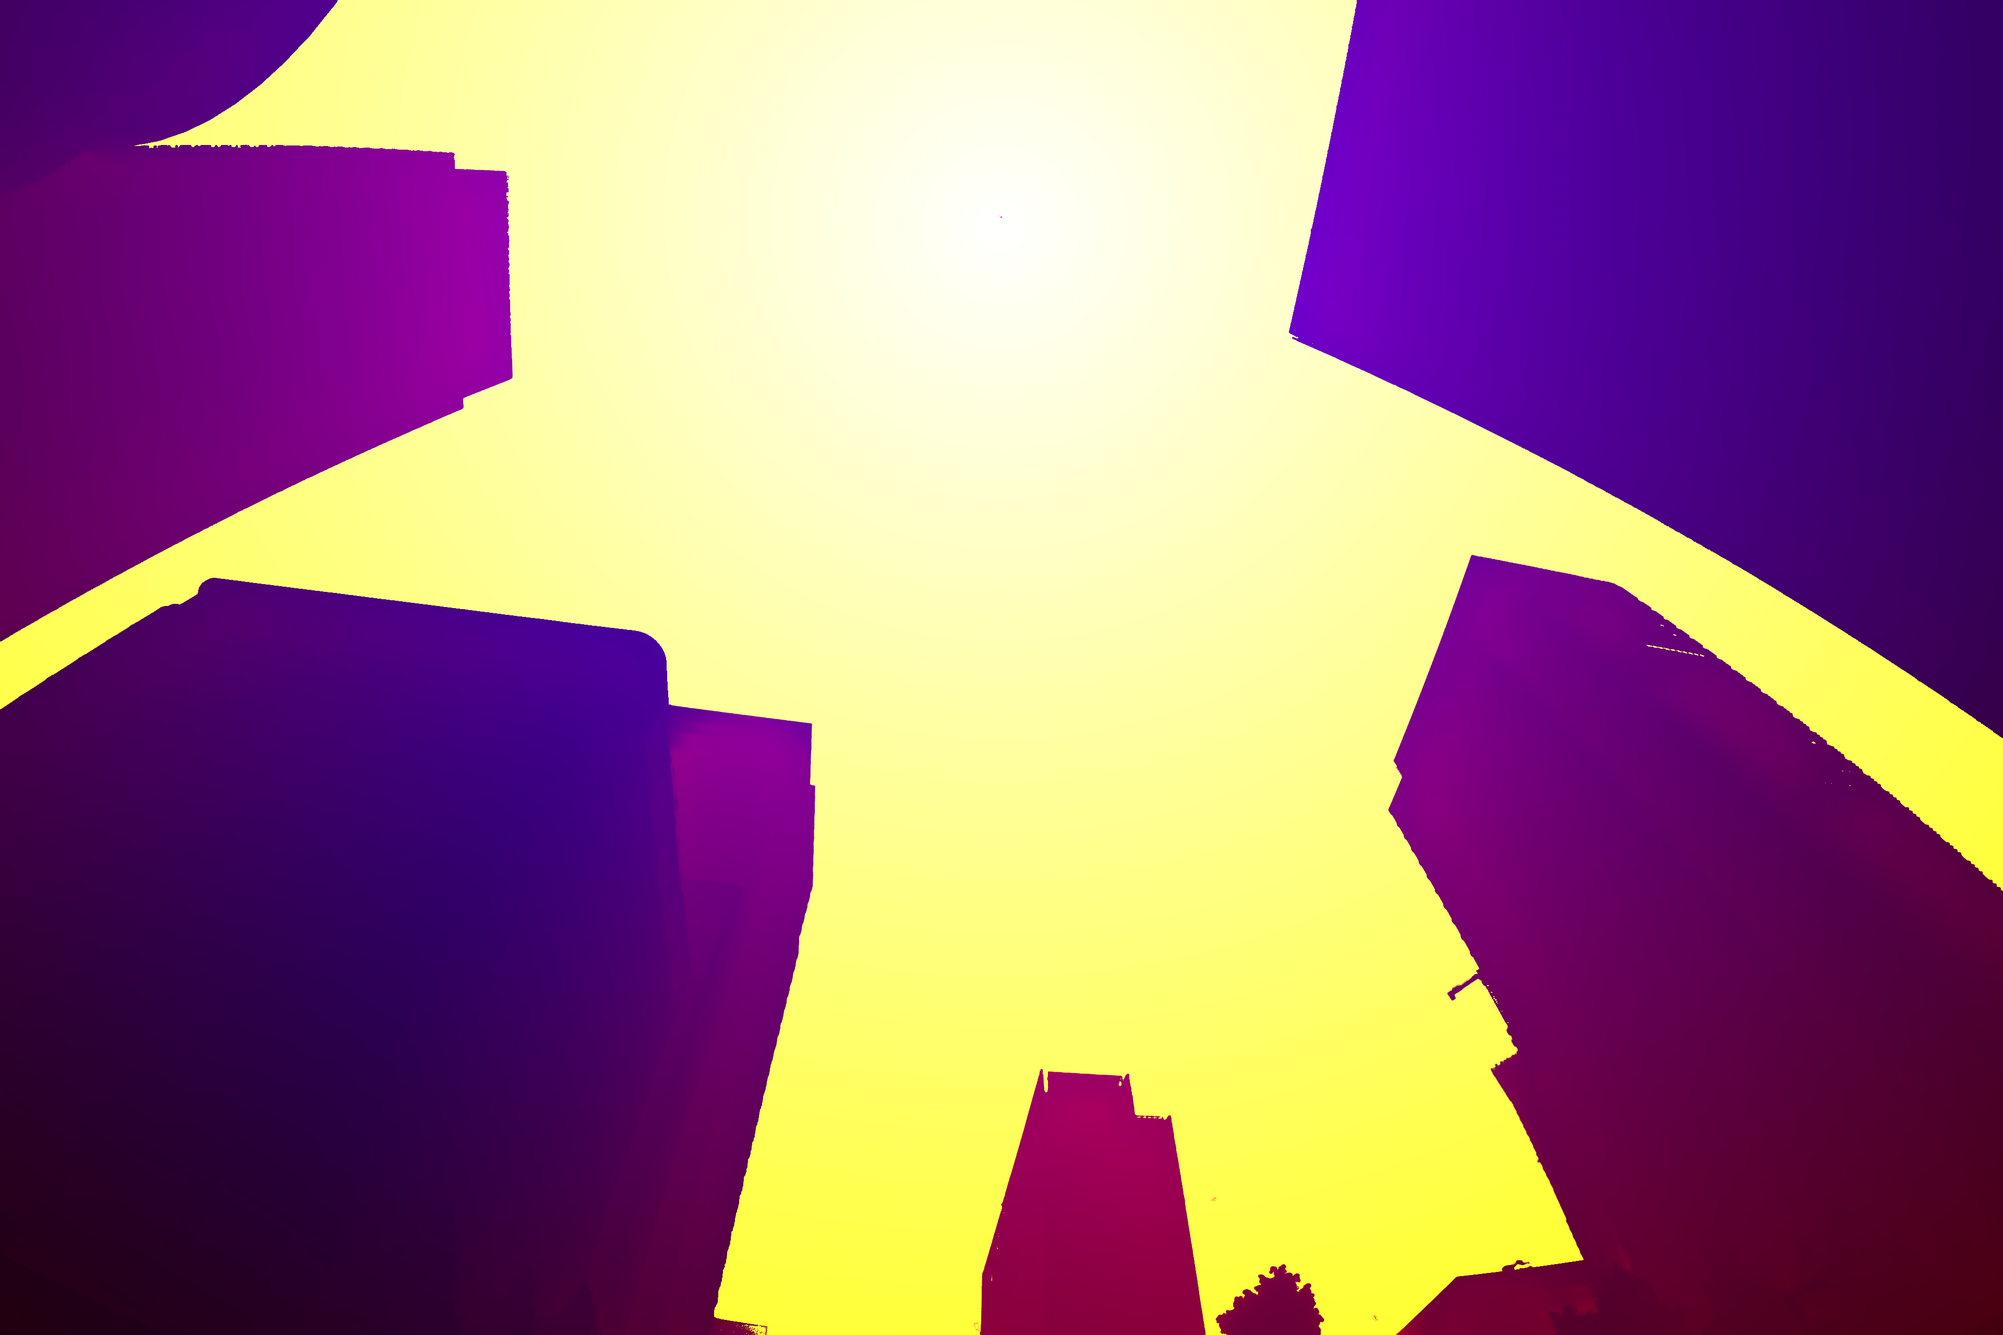
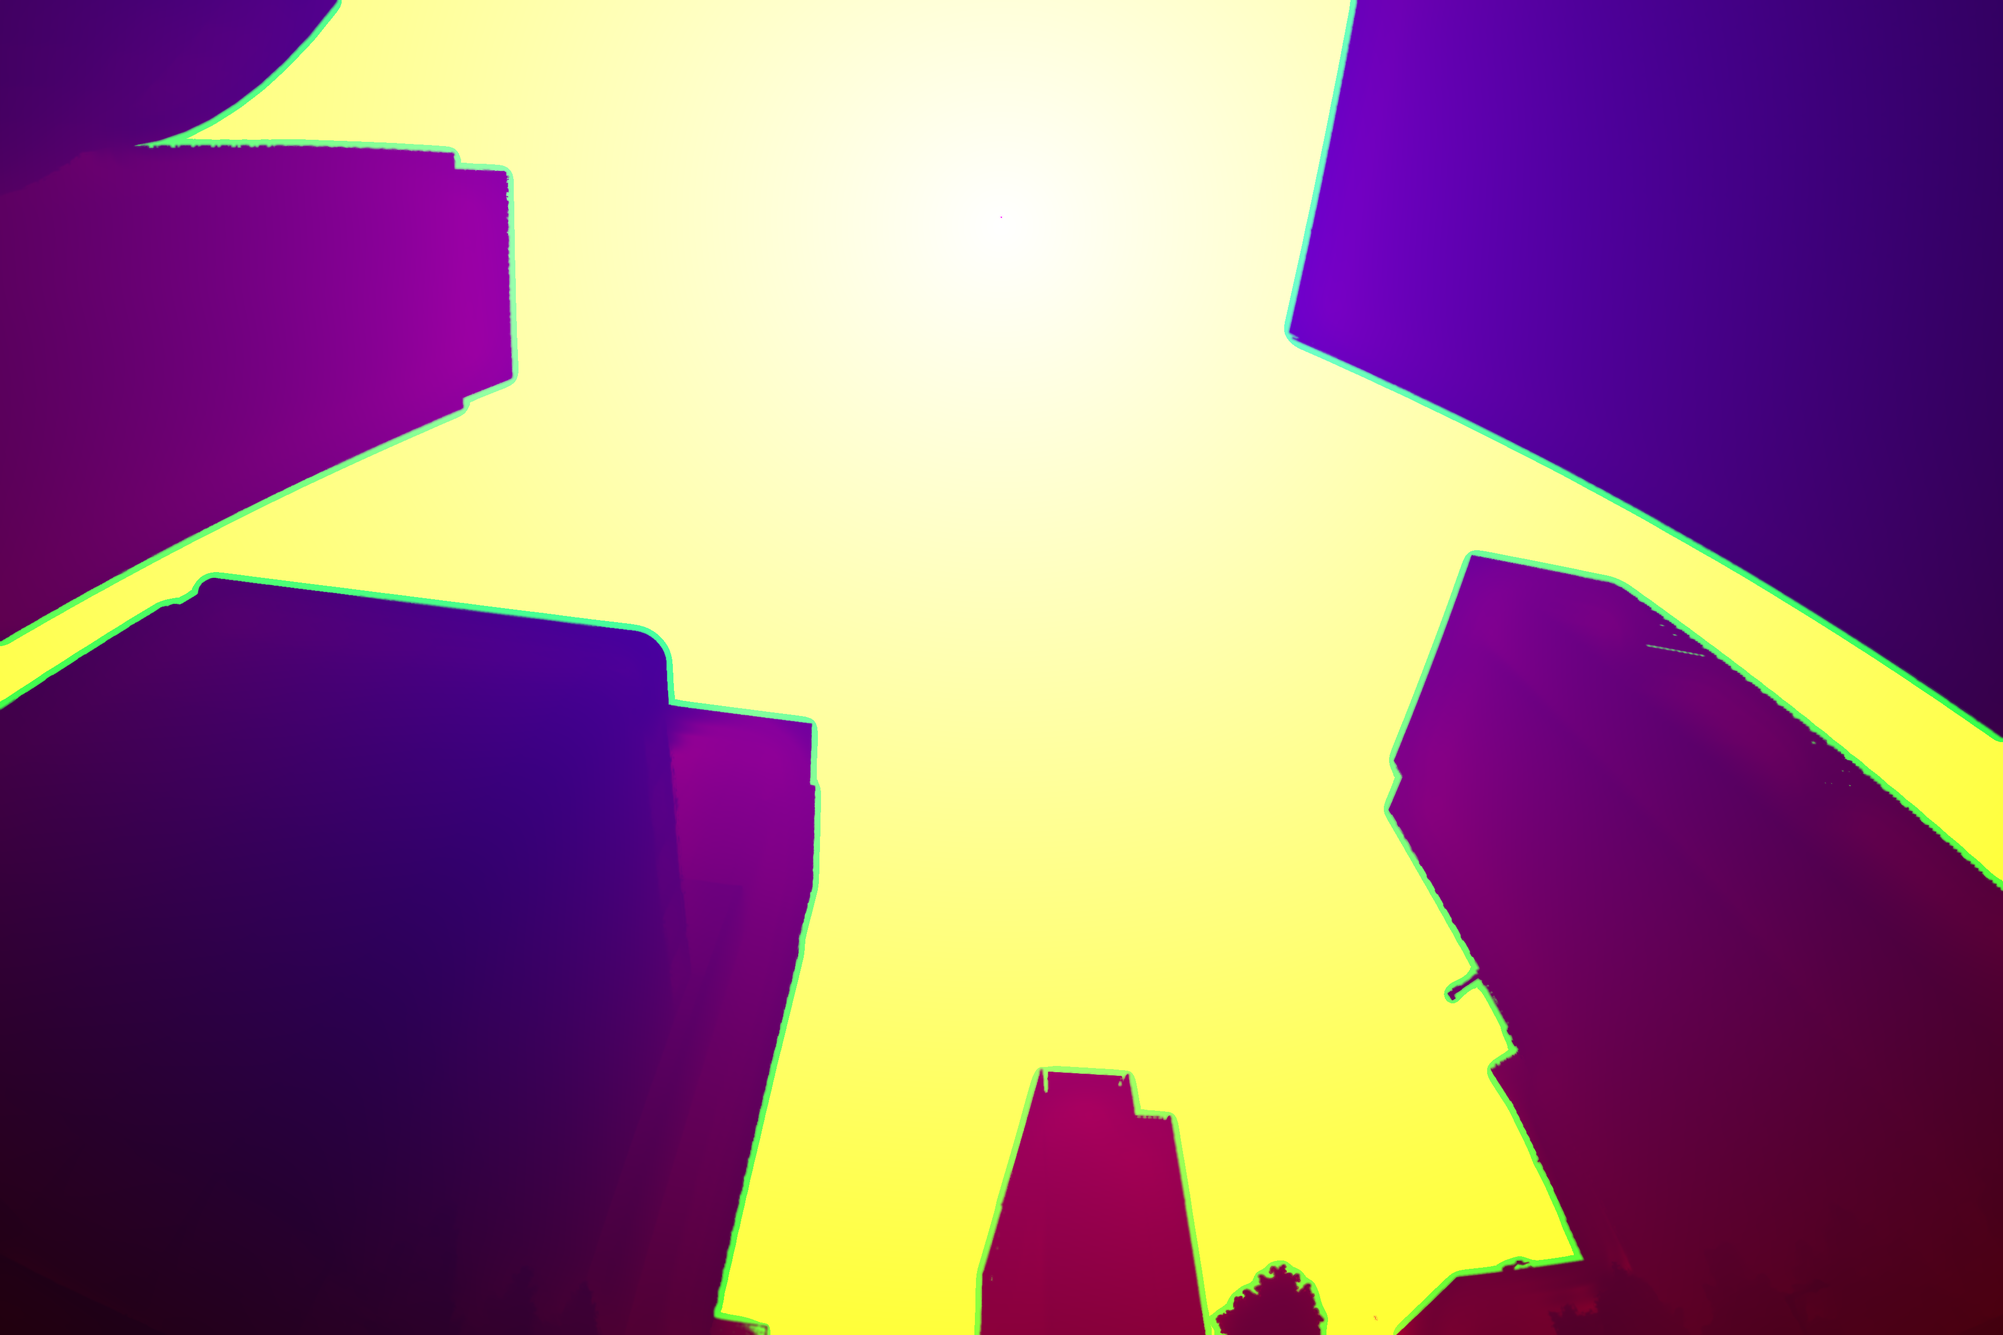
Lab: climb fog round 2
Claude-Session: https://claude.ai/code/session_01RqENhngNCzDFmJWDZueXGV

diff --git a/src/app/lab/fog/fogEngine.js b/src/app/lab/fog/fogEngine.js
@@ -13,7 +13,9 @@ import { createStage, clamp } from "../_kit/stage";
 // relative inverse depth, turned into metres offline (the glass corner ~30 m,
 // the far tower down the street ~380 m), with the distance and the sky matte
 // both stopped on the towers' silhouettes (no bleed band of sky distance
-// inside a tower's edge); the sky sits at the far end through its matte.
+// inside a tower's edge). The matte is sub-pixel coverage on the plate's own
+// edges, and the tower's distance runs out across them, so an edge pixel is
+// its tower's air and the sky's by coverage, never a per-pixel switch.
 // tools/depth/bakes/fog/ builds both (auxmap.py the distance and matte).
 //
 //   visibility V   the control (Koschmieder: beta = 3.912 / V at 550 nm)
@@ -34,7 +36,7 @@ import { createStage, clamp } from "../_kit/stage";
 //                  and banks of it drift slowly through the street
 
 const COLOR_SRC = "/lab/fog/plate.webp";
-const AUX_SRC = "/lab/fog/aux.png"; // r log distance, g sky matte, b elevation
+const AUX_SRC = "/lab/fog/aux.png"; // r log distance, g sky coverage, b elevation
 const ASPECT = 3 / 2;
 const PLATE_W = 3840; // plate.webp width; the forward-scatter blur is tuned in its levels
 const D_MIN = 10;
@@ -119,33 +121,42 @@ float vnoise(vec3 p) {
     mix(mix(hash3(i + vec3(0, 0, 1)), hash3(i + vec3(1, 0, 1)), f.x), mix(hash3(i + vec3(0, 1, 1)), hash3(i + vec3(1, 1, 1)), f.x), f.y),
     f.z);
 }
-// Optical depth along the ray through this pixel, per channel.
-vec3 tauAt(vec2 uv, vec4 aux) {
+// Extinction along a ray at elevation sine s through haze at log-distance
+// depth z (the noise lives at depths), weighted w by the pointer's breath.
+float betaAt(vec2 uv, float z, float w) {
+  // Banks of haze: low-frequency noise, advected sideways, living at depths.
+  vec3 q = vec3(uv.x * uAspect * 1.4 - uTime * 0.012, uv.y * 1.2, z * 0.4);
+  float n = vnoise(q) * 0.64 + vnoise(q * 2.03 + vec3(uTime * 0.008, 0.0, 3.1)) * 0.36;
+  float b = uBeta * mix(0.7, 1.3, n);
+  // It gathers where the pointer rests.
+  vec2 p = (uv - uBreath.xy) * vec2(uAspect, 1.0);
+  return b * (1.0 + uBreath.z * w * exp(-dot(p, p) / 0.06));
+}
+// Optical depth, per channel, along the ray to the tower this pixel is (or,
+// in the band along a silhouette, the tower it partly is: aux.r carries the
+// tower's distance out across its edge).
+vec3 tauTower(vec2 uv, vec4 aux) {
   float d = distAt(aux);
   float s = max(sin(radians(aux.b * 90.0)), 0.06);
   // Air in a haze layer that thins with height, along the ray to a tower.
   float L = ${HS.toFixed(1)} / s * (1.0 - exp(-d * s / ${HS.toFixed(1)}));
   // Less of it near the eye: the swept street, d - d0 ln(1 + d / d0) of d.
   L *= 1.0 - uClear / d * log(1.0 + d / max(uClear, 1e-3));
+  // Blue goes first along the street.
+  return betaAt(uv, log(d), 1.0) * L * vec3(${K_RGB.map((k) => k.toFixed(2)).join(", ")});
+}
+// And to the sky through it.
+vec3 tauSky(vec2 uv, vec4 aux) {
+  float s = max(sin(radians(aux.b * 90.0)), 0.06);
   // The sky is looked at through the whole column, by airmass: a thin one
   // overhead, so the zenith stays clear, thickening gradually toward the
   // low sky down the street (1 / cos of the zenith angle, floored).
-  float Ls = ${HS_SKY.toFixed(1)} / max(s, ${AIRMASS_FLOOR.toFixed(2)});
-  L = mix(L, Ls, aux.g);
-  // Banks of haze: low-frequency noise, advected sideways, living at depths.
-  vec3 q = vec3(uv.x * uAspect * 1.4 - uTime * 0.012, uv.y * 1.2, log(d) * 0.4);
-  float n = vnoise(q) * 0.64 + vnoise(q * 2.03 + vec3(uTime * 0.008, 0.0, 3.1)) * 0.36;
-  float b = uBeta * mix(0.7, 1.3, n);
-  // It gathers where the pointer rests.
-  vec2 p = (uv - uBreath.xy) * vec2(uAspect, 1.0);
-  // Over the sky it gathers at half strength: a breath, not a bank.
-  b *= 1.0 + uBreath.z * mix(1.0, 0.5, aux.g) * exp(-dot(p, p) / 0.06);
-  // Blue goes first along the street. Over the sky the column is short and
-  // the light it takes away is the cloud's warm-white, which a Rayleigh
-  // spread turns lilac under the blue veil; there the haze is near-grey and
-  // the veil keeps the skylight's cyan.
-  vec3 k = mix(vec3(${K_RGB.map((k) => k.toFixed(2)).join(", ")}), vec3(${K_SKY.map((k) => k.toFixed(2)).join(", ")}), aux.g);
-  return b * L * k;
+  float L = ${HS_SKY.toFixed(1)} / max(s, ${AIRMASS_FLOOR.toFixed(2)});
+  // Over the sky it gathers at half strength: a breath, not a bank. The
+  // column is short and the light it takes away is the cloud's warm-white,
+  // which a Rayleigh spread turns lilac under the blue veil; there the haze
+  // is near-grey and the veil keeps the skylight's cyan.
+  return betaAt(uv, ${Math.log(D_MAX).toFixed(4)}, 0.5) * L * vec3(${K_SKY.map((k) => k.toFixed(2)).join(", ")});
 }
 `;
 
@@ -237,12 +248,21 @@ void main() {
   vec2 frag = vec2(gl_FragCoord.x, uCanvas.y - gl_FragCoord.y);
   vec2 uv = clamp((frag - uRect.xy) / uRect.zw, 0.0, 1.0);
   vec4 aux = texture(uAux, uv);
-  vec3 T = exp(-tauAt(uv, aux));
+  // How much of this pixel is open sky: the aux coverage, boxed over the
+  // pixel's footprint like the plate (the aux map is drawn smaller than 1:1,
+  // and one bilinear tap of it would alias the silhouettes again).
+  vec2 q = 0.25 / uRect.zw;
+  float cov = 0.25 * (texture(uAux, uv + vec2(-q.x, -q.y)).g + texture(uAux, uv + vec2(q.x, -q.y)).g
+    + texture(uAux, uv + vec2(-q.x, q.y)).g + texture(uAux, uv + vec2(q.x, q.y)).g);
+  // Two rays share an edge pixel: one stops on the tower, one goes on to the
+  // sky. Each has its own air, and the pixel is the two by coverage.
+  vec3 Tt = exp(-tauTower(uv, aux));
+  vec3 Ts = exp(-tauSky(uv, aux));
 
   // Forward scatter softens what the air has nearly taken: the towers only.
   // The sky behind the haze is veiled by the in-scatter below, never blurred
   // (convolving the clouds reads as a lens, not as air).
-  float soft = (1.0 - T.g) * (1.0 - T.g) * (1.0 - smoothstep(0.02, 0.5, aux.g));
+  float soft = (1.0 - Tt.g) * (1.0 - Tt.g) * (1.0 - cov);
   vec3 scene = plate(uv, soft * ${(1.6 + Math.log2(PLATE_W / 2400)).toFixed(3)});
 
   // The air is lit by the sky. In front of the sky it is the sky's own light
@@ -255,7 +275,7 @@ void main() {
   vec3 air = (a.rgb + uSkyMean * 0.02) / (a.a + 0.02);
   air = mix(vec3(${hex(AIR_LOW)}), air, smoothstep(16.0, 60.0, aux.b * 90.0));
   // Thick haze scatters more often and lifts toward the brighter horizon.
-  float thick = 1.0 - T.g;
+  float thick = 1.0 - Ts.g;
   air = pow(min(air * (1.0 + 0.08 * thick), vec3(${hex(AIR_CAP)})), vec3(2.2));
   // In front of a tower it is the open sky at that tower's own elevation: a
   // far tower fades into the blue it stands in, never toward the pale rim or
@@ -263,23 +283,24 @@ void main() {
   // turns the towers to milk). Clamped to the mid sky: the deep cobalt
   // overhead is the thinnest air in the frame and lights the least of it.
   vec3 open = pow(mix(uSkyLow, uSkyMid, smoothstep(18.0, 34.0, aux.b * 90.0)), vec3(2.2));
-  air = mix(open, air, smoothstep(0.02, 0.5, aux.g));
 
-  vec3 col = scene * T + air * (1.0 - T);
+  vec3 tower = scene * Tt + open * (1.0 - Tt);
+  vec3 sky = scene * Ts + air * (1.0 - Ts);
   // The veil over the sky keeps the cumulus' forms: their local detail (the
   // plate less its blur at the scale of a cloud's forms) comes back over the
   // in-scatter, so at least ${Math.round(DETAIL_K * 100)}% of it survives any depth of haze and
   // the low cloud reads as cloud through the air, not as a flat wash.
   vec4 dtl = texture(uDetail, uv);
   vec3 forms = pow(dtl.rgb / max(dtl.a, 1e-3), vec3(2.2));
-  float skyW = smoothstep(0.5, 1.0, aux.g) * smoothstep(0.05, 0.3, dtl.a);
-  col += ${DETAIL_K.toFixed(2)} * (1.0 - T) * (scene - forms) * skyW;
+  sky += ${DETAIL_K.toFixed(2)} * (1.0 - Ts) * (scene - forms) * smoothstep(0.05, 0.3, dtl.a);
+  vec3 col = mix(tower, sky, cov);
+  vec3 T = mix(Tt, Ts, cov);
   // Display-encoded and untoned, for the film finish. Alpha packs two
   // sixteenths (it survives an 8-bit target): how much of this pixel is a solid
   // tower still seen through the air (the glass grade's weight, so far towers
   // keep the blue the haze gave them), and how clear the air in front of it is
   // (the warm top end is the sun on the cumulus, not on the haze).
-  float solid = T.g * (1.0 - smoothstep(0.02, 0.5, aux.g));
+  float solid = Tt.g * (1.0 - cov);
   outColor = vec4(pow(max(col, 0.0), vec3(1.0 / 2.2)), (floor(solid * 15.0 + 0.5) * 16.0 + floor(T.g * 15.0 + 0.5)) / 255.0);
 }`;
 
@@ -294,8 +315,15 @@ vec3 tone(vec3 x) {
   return min(y, k) + 0.085 * (1.0 - exp(-max(y - k, 0.0) / 0.085));
 }
 float luma(vec3 c) { return dot(c, vec3(0.2126, 0.7152, 0.0722)); }
-// What exposes the halation: the toned highlights, above about 0.8.
-float highlight(vec3 display) { return smoothstep(0.8, 0.94, luma(tone(display))); }
+// What exposes the halation: the toned highlights, above about 0.8, that are
+// light rather than sky: the sunlit cumulus and glints, near-neutral to warm.
+// The pale cyan of the low sky in haze is bright too, but it is a cool field,
+// not a highlight, and a ring of red round every tower against it reads as a
+// chroma fringe.
+float highlight(vec3 display) {
+  float cool = smoothstep(0.03, 0.1, display.b - display.r);
+  return smoothstep(0.8, 0.94, luma(tone(display))) * (1.0 - cool);
+}
 `;
 
 // The finish's sources at half size: rgb the scene, linear, for the diffusion
@@ -313,7 +341,7 @@ void main() {
 
 // The last stage: the scene as summer film, scanned. A diffusion bloom and
 // scan softness, a filmic shoulder whose top end is warm-neutral, cloud shade
-// toward skylight blue, glass graded away from the sky's blue, a thin red
+// toward skylight blue, glass graded away from the sky's blue, a thin amber
 // halation under the highlight edges, and 24 fps grain at scan scale.
 const FINISH = `#version 300 es
 precision highp float;
@@ -376,8 +404,9 @@ void main() {
   // Halation: light through the base bouncing back into the red layer, just
   // outside each highlight edge.
   float hal = max(texture(uHal, vUv).a / uNorm.x - highlight(s.rgb), 0.0);
-  // Red, with the little green that makes it read red-orange over the blue.
-  c += hal * vec3(0.42, 0.08, 0.0);
+  // A warm amber: red with half as much green, so over the cyan sky it warms
+  // the ring toward the cloud's white instead of printing magenta.
+  c += hal * vec3(0.3, 0.15, 0.02);
 
   // A little toe, then grain: luminance only, strongest in the midtones.
   c = mix(c, c * c * (3.0 - 2.0 * c), 0.1);

diff --git a/tools/depth/bakes/fog/auxmap.py b/tools/depth/bakes/fog/auxmap.py
@@ -1,8 +1,9 @@
 # Fog, the aux map: what the air needs to know about each pixel.
 #
 #   aux.png     R  log distance in metres, D_MIN..D_MAX (sky = D_MAX)
-#               G  sky matte (white = sky): where the air's colour comes from,
-#                  and which column of haze a pixel is seen through
+#               G  sky coverage (white = sky): how much of each pixel is open
+#                  sky, which weighs the sky's air (its colour and its column
+#                  of haze) against the tower's
 #               B  the ray's elevation above the horizon, 0..90 degrees
 #
 # Both R and G have to stop exactly on the towers' silhouettes, or the haze
@@ -21,6 +22,16 @@
 #               distance of the tower's own interior just inside it, never
 #               farther, then a 2 px erosion catches the thin parts (railings,
 #               fins) the interior cannot reach.
+#
+# The snap decides which side of each silhouette a pixel belongs to, but a
+# binary matte stair-steps wherever it is drawn smaller than 1:1 (the plate is
+# 3840 wide and most screens draw it at 2560 or less) and it cannot follow an
+# edge that falls inside a pixel. So the matte the shader gets is coverage: in
+# a band a few pixels either side of the snapped silhouette, a guided filter
+# (He et al.) on the plate's own colour turns the hard matte into a soft one
+# whose transition sits exactly on the plate's edge. R carries the tower's
+# distance across that band (into the sky side too), so the shader can blend
+# the tower's air and the sky's air by coverage instead of switching per pixel.
 #
 # Standalone (rewrites aux.png only; the plate is left alone):
 #   python3 -I tools/depth/bakes/fog/auxmap.py /tmp/claude-0/fog-work16
@@ -97,17 +108,78 @@ def snap(r, matte):
     return r, m
 
 
-def build(r, matte, elev):
-    """aux as floats, H x W x 3."""
+def guided(I, p, r, eps):
+    """Guided filter (He, Sun, Tang 2010) of p by the colour image I, window
+    radius r: p's edges, moved onto I's."""
+    box = lambda x: cv2.boxFilter(x, -1, (2 * r + 1, 2 * r + 1), borderType=cv2.BORDER_REFLECT)
+    mI = [box(I[..., k]) for k in range(3)]
+    mp = box(p)
+    cov_Ip = [box(I[..., k] * p) - mI[k] * mp for k in range(3)]
+    v = {}
+    for i in range(3):
+        for j in range(i, 3):
+            v[i, j] = v[j, i] = box(I[..., i] * I[..., j]) - mI[i] * mI[j] + (eps if i == j else 0)
+    # inverse of the 3x3 covariance, by cofactors
+    c00 = v[1, 1] * v[2, 2] - v[1, 2] * v[1, 2]
+    c01 = v[0, 2] * v[1, 2] - v[0, 1] * v[2, 2]
+    c02 = v[0, 1] * v[1, 2] - v[0, 2] * v[1, 1]
+    c11 = v[0, 0] * v[2, 2] - v[0, 2] * v[0, 2]
+    c12 = v[0, 2] * v[0, 1] - v[0, 0] * v[1, 2]
+    c22 = v[0, 0] * v[1, 1] - v[0, 1] * v[0, 1]
+    det = v[0, 0] * c00 + v[0, 1] * c01 + v[0, 2] * c02
+    inv = [[c00, c01, c02], [c01, c11, c12], [c02, c12, c22]]
+    a = [sum(cov_Ip[j] * inv[k][j] for j in range(3)) / det for k in range(3)]
+    b = mp - sum(a[k] * mI[k] for k in range(3))
+    return sum(box(a[k]) * I[..., k] for k in range(3)) + box(b)
+
+
+def coverage(m, plate):
+    """The snapped matte as sub-pixel coverage on the plate's own edges."""
+    H, W = m.shape
+    S = W / 2400
+    hard = (m > 0.5).astype(np.float32)
+    # Distance from the silhouette, either side, in plate pixels.
+    out = cv2.distanceTransform((hard > 0).astype(np.uint8), cv2.DIST_L2, 5)
+    inn = cv2.distanceTransform((hard < 1).astype(np.uint8), cv2.DIST_L2, 5)
+    sd = np.where(hard > 0, out, inn)
+    # A 5 px window at 3840: wide enough to see both sides of an edge the snap
+    # put a pixel off, narrow enough to keep the silhouettes crisp on screen.
+    r = max(2, int(round(1.25 * S)))
+    I = plate.astype(np.float32)
+    a = np.clip(guided(I, hard, r, 2e-3), 0, 1)
+    # Only along the silhouette: elsewhere the snap's answer stands (the glass
+    # that mirrors the sky must not turn half sky because it looks like it).
+    w = 1 - smooth(1.5 * S, 3 * S, sd)
+    return hard + (a - hard) * w, sd
+
+
+def build(r, matte, elev, plate):
+    """aux as floats, H x W x 3. plate: the graded plate, display sRGB 0..1."""
+    S = r.shape[1] / 2400
     r, m = snap(r, matte)
     inv = A * r + B
     e = 1 / 900
     inv = 0.5 * (inv + np.sqrt(inv * inv + e * e))
     d = np.clip(1 / inv, D_MIN, D_MAX)
     q = np.log(d / D_MIN) / np.log(D_MAX / D_MIN)
-    # the sky sits at the far end, through the matte's own soft edge
-    q = q * (1 - m) + 1.0 * m
-    return np.stack([q, m, np.clip(elev / 90, 0, 1)], -1), d
+    cov, sd = coverage(m, plate)
+    # The tower's distance, carried out across the silhouette into the sky
+    # side of the band (a normalised blur of the solid's own distance, finest
+    # scale that reaches), so an edge pixel blends the tower it partly is with
+    # the sky. Past the band the sky sits at the far end, as before.
+    solid = (m <= 0.5).astype(np.float32)
+    fill = np.zeros_like(q)
+    got = np.zeros_like(q)
+    for sig in (1.5 * S, 3 * S, 6 * S):
+        num = cv2.GaussianBlur(q * solid, (0, 0), sig)
+        den = cv2.GaussianBlur(solid, (0, 0), sig)
+        take = smooth(0.02, 0.2, den) * (1 - got)
+        fill += num / (den + 1e-6) * take
+        got += take
+    fill = fill / np.maximum(got, 1e-6)
+    band = (solid < 1) & (sd < 8 * S) & (got > 0.5)
+    q = np.where(solid > 0, q, np.where(band, fill, 1.0))
+    return np.stack([q, cov, np.clip(elev / 90, 0, 1)], -1), d
 
 
 def save(aux, out=OUT):
@@ -116,9 +188,13 @@ def save(aux, out=OUT):
 
 if __name__ == '__main__':
     work = sys.argv[1] if len(sys.argv) > 1 else '/tmp/claude-0/fog-work16'
+    out = sys.argv[2] if len(sys.argv) > 2 else OUT
     elev = np.load(f'{work}/elev.npy').astype(np.float32)
     H, W = elev.shape
-    aux, d = build(load_depth(work, W, H), load_matte(work, W, H), elev)
-    save(aux)
+    # the lossless copy of the plate when the bake left one, else the shipped one
+    src = f'{work}/plate-prev.png' if os.path.exists(f'{work}/plate-prev.png') else f'{OUT}/plate.webp'
+    plate = np.asarray(Image.open(src).convert('RGB'), np.float32) / 255
+    aux, d = build(load_depth(work, W, H), load_matte(work, W, H), elev, plate)
+    save(aux, out)
     for n, (u, v) in dict(glass=(.2, .7), rtower=(.85, .2), ltower=(.15, .25), far=(.54, .88), farside=(.5, .92), behind=(.37, .6), rlow=(.8, .75)).items():
         print(n, round(float(d[int(v * H), int(u * W)]), 1))

diff --git a/tools/depth/bakes/fog/bake.py b/tools/depth/bakes/fog/bake.py
@@ -185,8 +185,9 @@ print('plate: clipped', round(float((s8.max(-1) >= 255).mean() * 100), 3), '%, n
 
 # ---------------------------------------------------------------- distance
 # aux.png: distance, matte and elevation, snapped to the silhouettes (auxmap.py).
-# The plate above keeps the segmentation's own matte.
-aux, d = auxmap.build(r, matte, elev)
+# The plate above keeps the segmentation's own matte; the aux matte is the
+# snapped one as coverage on the plate's own edges.
+aux, d = auxmap.build(r, matte, elev, srgb)
 auxmap.save(aux, OUT)
 for n, (u, v) in dict(glass=(.2, .7), rtower=(.85, .2), ltower=(.15, .25), far=(.54, .88), behind=(.37, .6), rlow=(.8, .75)).items():
     print(n, round(float(d[int(v * H), int(u * W)]), 1))
